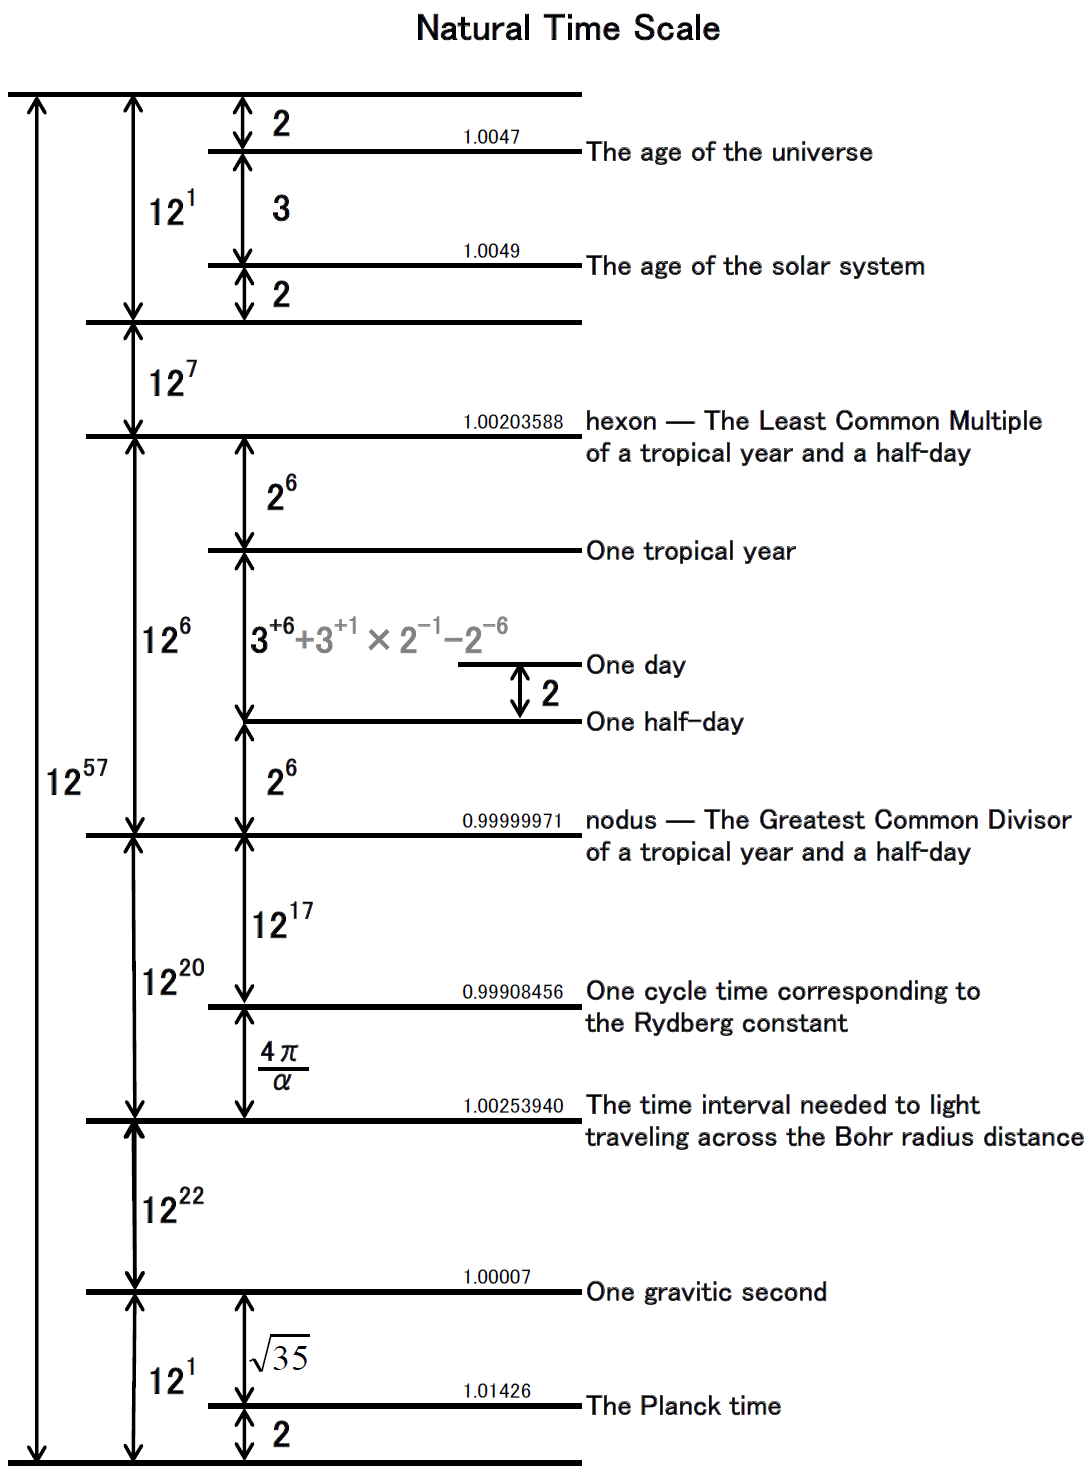
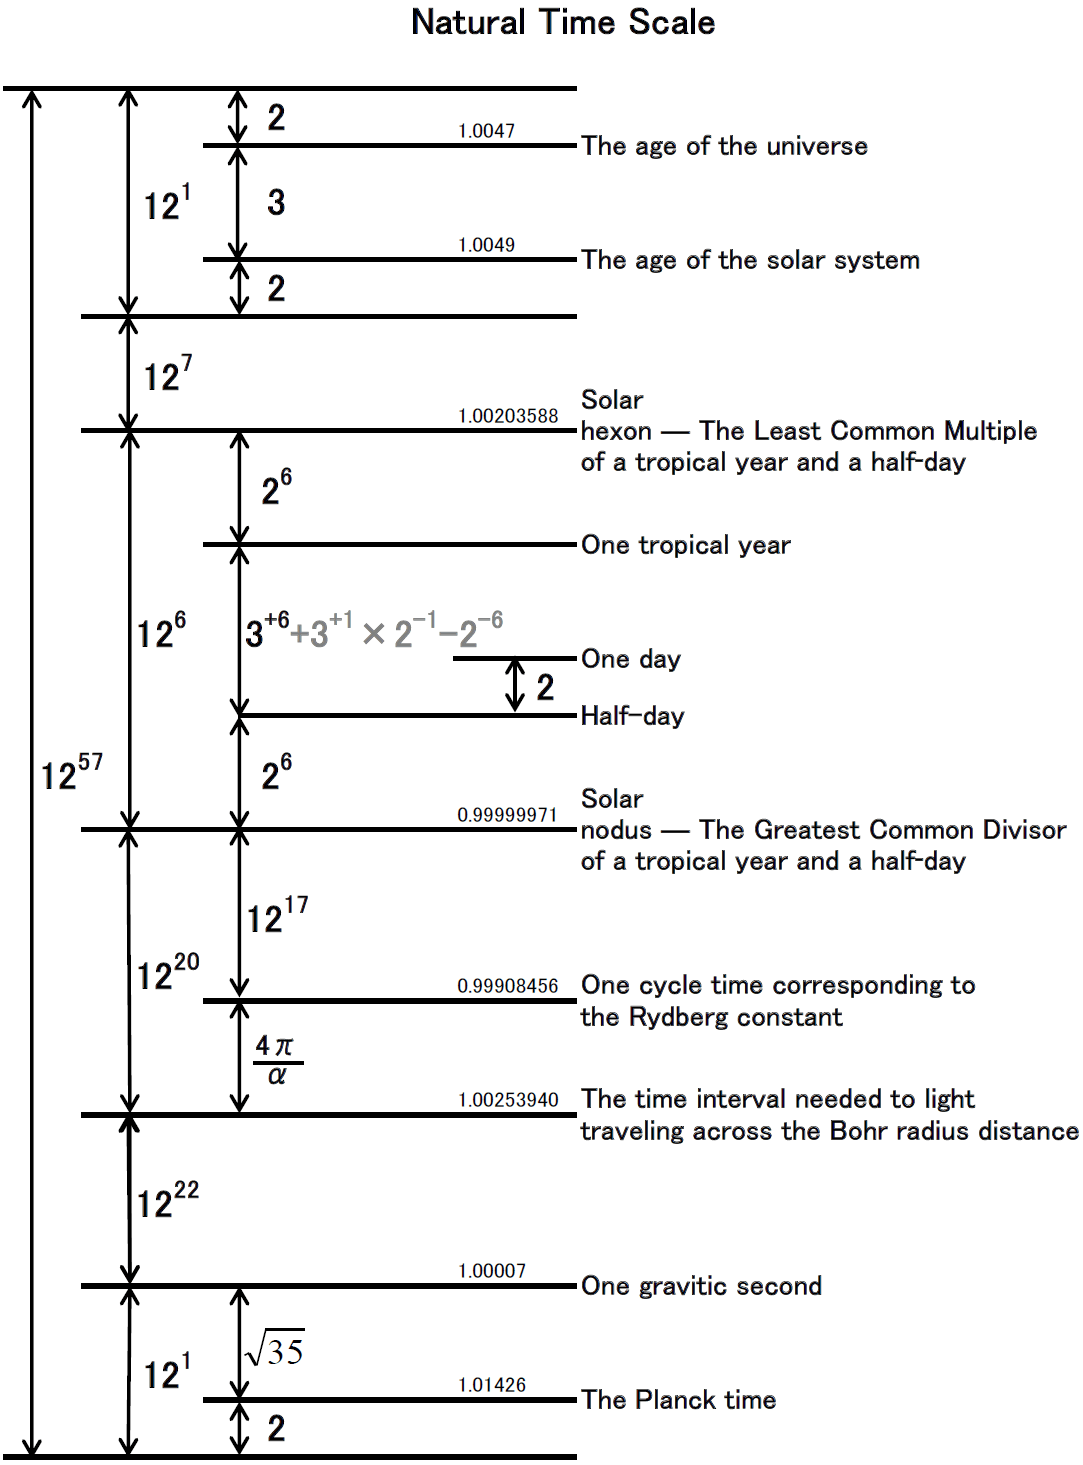
Modify the “hexon” and “nodus” in the Natural Time Scale diagram to use “solar.”

diff --git a/index.html b/index.html
@@ -9,7 +9,7 @@
   <meta property="og:title" content="Universal Unit System (UUS) / Harmonic System">
   <meta property="og:url" content="http://dozenal.com/">
   <meta property="article:published_time" content="2026-06-25T00:00:00+09:00">
-  <meta property="article:modified_time" content="2026-07-22T09:00:00+09:00">
+  <meta property="article:modified_time" content="2026-07-22T20:00:00+09:00">
   <link rel="canonical" href="http://dozenal.com/">
 
   <!-- JSON-LD structured data -->
@@ -298,7 +298,7 @@
         <!-- Right：Figure -->
         <a href="https://suchowan.seesaa.net/article/202501article_17_3.html" target="Blog">
           <img src="doc/pic/NaturalTimeScale.png" class="natural-time-img" alt="Natural Time Scale diagram" 
-             title="Natural Time Scale — dozenal-based temporal hierarchy illustrating harmonic relationships between cosmic, atomic, and daily cycles."/>
+             title="Natural Time Scale — dozenal-based temporal hierarchy illustrating harmonic relationships between cosmic, atomic, and daily cycles. year/day retain their common usage; hexon/nodus, being coinages, are marked solar to avoid being mistaken for physical periods."/>
         </a>
         <p><small>Natural Time Scale — dozenal-based temporal hierarchy</small></p>
       </td>